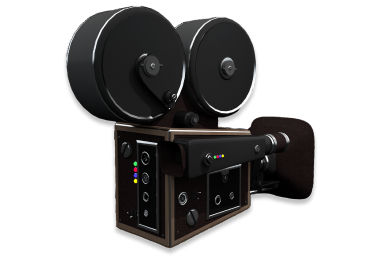
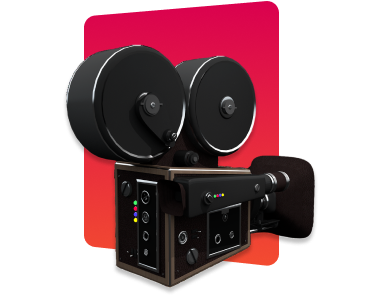
finished GetStarted screen

Changed region(s): [[0.1755, 0.0, 0.8484, 0.966], [0.8191, 0.6038, 0.8484, 0.6642], [0.4388, 0.6642, 0.4681, 0.7245]]

diff --git a/src/screens/GetStarted.js b/src/screens/GetStarted.js
@@ -1,16 +1,49 @@
 import React from 'react';
-import { StyleSheet, View } from 'react-native';
+import {StyleSheet, View, Text, Image} from 'react-native';
 
-const style = StyleSheet.create({
-    screen: {
-        flex: 1,
-    },
+// components
+import {
+  Button,
+  Gap,
+} from '../components';
+
+// assets - images
+import {
+  Camera
+} from '../assets/images';
+
+const styles = StyleSheet.create({
+  screen: {
+    flex: 1,
+    padding: 20,
+    backgroundColor: '#130B2B',
+    justifyContent: 'center',
+  },
+  image: {
+    height: 250,
+    width: 250,
+    alignSelf: 'center',
+  },
+  title: {
+    fontFamily: 'Poppins-Bold',
+    fontSize: 30,
+    textAlign: 'center',
+    color: 'white',
+  },
 });
 
-export default function GetStarted() {
+export default function GetStarted({navigation}) {
+  const GetStartedOnPress = () => {
+    navigation.replace('Welcome');
+  };
+
   return(
-    <View>
-      <Text>Get Started</Text>
+    <View style={styles.screen}>
+      <Image source={Camera} style={styles.image} />
+      <Gap h={25} />
+      <Text style={styles.title}>Cinema+</Text>
+      <Gap h={75} />
+      <Button title='Get Start' onPress={GetStartedOnPress} />
     </View>
   );
 };

diff --git a/src/App.js b/src/App.js
@@ -17,7 +17,7 @@ const Stack = createNativeStackNavigator();
 export default function App() {
   return(
     <NavigationContainer>
-      <Stack.Navigator>
+      <Stack.Navigator initialRouteName='GetStarted' screenOptions={{ headerShown: false }}>
         <Stack.Screen name='GetStarted' component={ GetStarted } />
         <Stack.Screen name='Movie' component={ Movie } />
         <Stack.Screen name='MovieList' component={ MovieList } />

diff --git a/src/components/Button.js b/src/components/Button.js
@@ -24,7 +24,7 @@ export default function Button({
   onPress = console.log('onPress is undefined'),
 }) {
   return(
-    <TouchableOpacity onPress={onPress}>
+    <TouchableOpacity onPress={onPress} activeOpacity={0.75}>
       <LinearGradient 
         style={styles.button} 
         colors={['#F34C30','#DA004E']} 

diff --git a/src/screens/Welcome.js b/src/screens/Welcome.js
@@ -1,5 +1,5 @@
 import React from 'react';
-import { StyleSheet, View } from 'react-native';
+import {StyleSheet, View, Text} from 'react-native';
 
 const style = StyleSheet.create({
     screen: {

diff --git a/src/components/Gap.js b/src/components/Gap.js
@@ -1,0 +1,8 @@
+import React from 'react';
+import {View} from 'react-native';
+
+export default function Gap({h=0, w=0}) {
+  return(
+    <View style={{height: h, width: w}} />
+  );
+};

diff --git a/src/components/index.js b/src/components/index.js
@@ -1,7 +1,9 @@
 // components
 
 import Button from './Button';
+import Gap from './Gap';
 
 export {
   Button,
+  Gap,
 };
